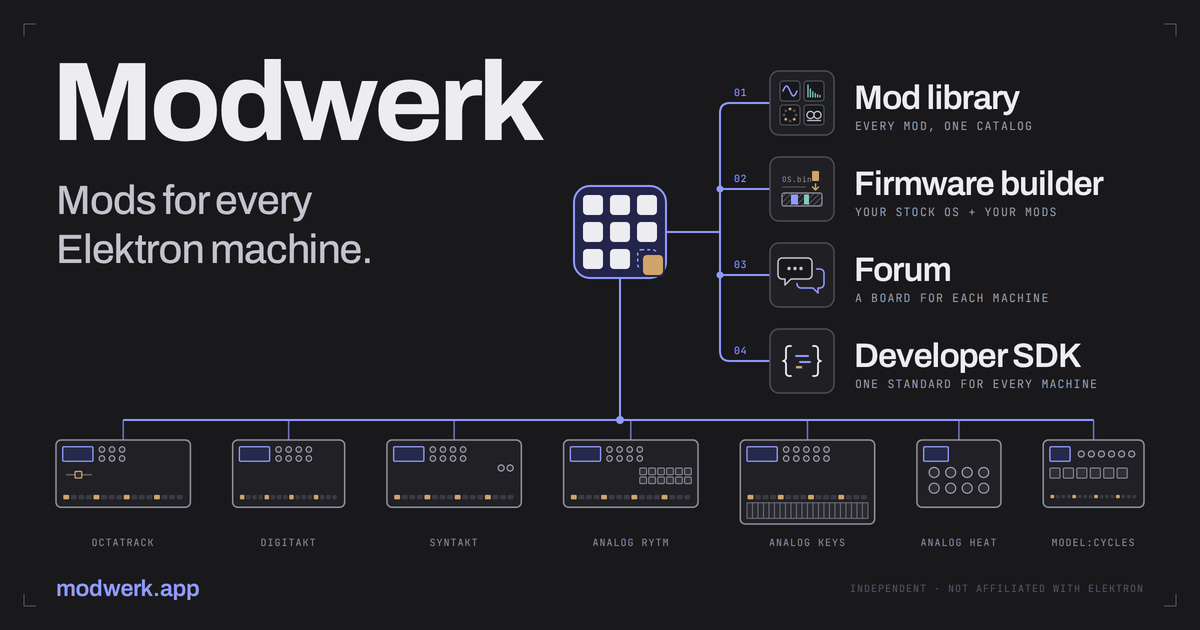
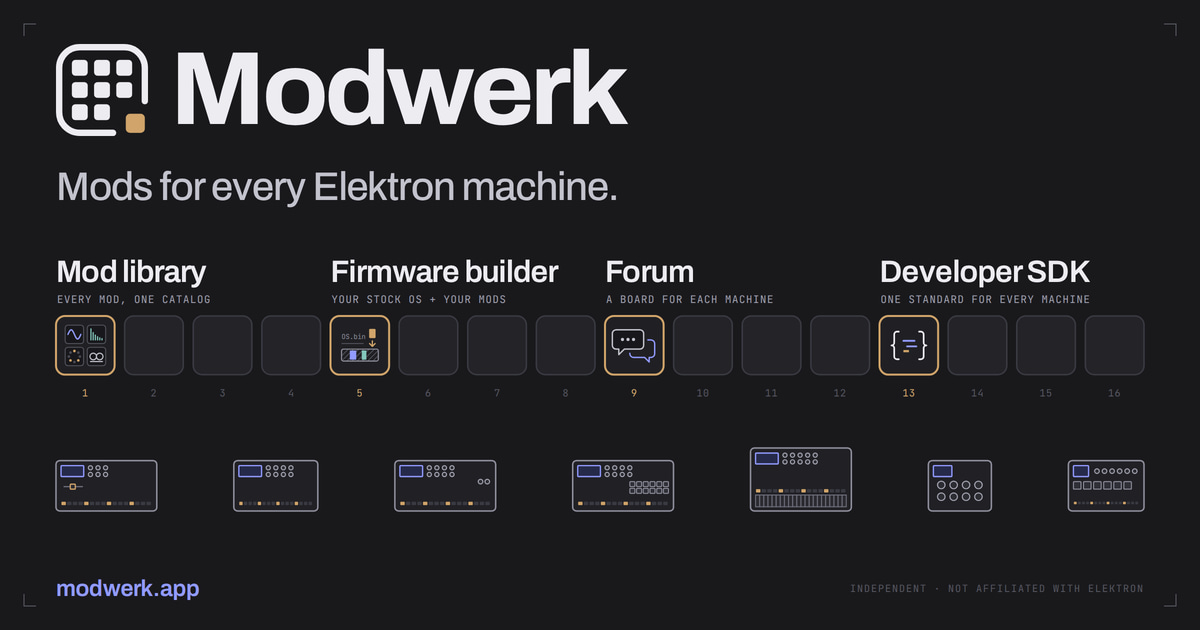
Redraw the link preview as a trig row; add the Modwerk mark
The node tree gives way to a sixteen-step trig row: its four beat steps
are the four features, with one of each machine standing on a baseline
below. The lockup embeds the new mark file as-is.

The mark keeps the eight tiles, centred in a frame that opens at one
corner, where an apricot ninth tile (the mod) slides in. It comes in
dark- and light-background versions; favicon.svg stays as it is until
the rebrand. The render script now refuses a render without the mark.

Claude-Session: https://claude.ai/code/session_011QqrFmTa9EbecLdEJrY2yL

diff --git a/docs/social-preview/modwerk-v2.html b/docs/social-preview/modwerk-v2.html
@@ -6,6 +6,7 @@
 <!--
   Source of public/modwerk-social-preview-v2.jpg: a 1200 × 630 vector drawing, rendered by
   scripts/render-social-preview.mjs. Original artwork; no firmware, photographs or captures.
+  The mark is public/modwerk-mark.svg, embedded as-is.
   Machines follow the site's schematic DeviceArt rules (generic boxes, not product likenesses).
   Fonts: Archivo and JetBrains Mono (SIL Open Font License 1.1), pinned @fontsource builds.
 -->
@@ -20,7 +21,7 @@
 </head>
 <body>
 <svg id="art" xmlns="http://www.w3.org/2000/svg" width="1200" height="630" viewBox="0 0 1200 630" role="img"
-  aria-label="Modwerk. Mods for every Elektron machine. A hub links Elektron machines to the mod library, firmware builder, forum and developer SDK."></svg>
+  aria-label="Modwerk. Mods for every Elektron machine. Four highlighted steps of a sequencer row show the mod library, firmware builder, forum and developer SDK, above a row of Elektron machines."></svg>
 <script>
 // Site palette (src/styles.css, src/devices/devices.css).
 const C = {
@@ -137,77 +138,61 @@ for (const [x, y, dx, dy] of [[24, 24, 1, 1], [1176, 24, -1, 1], [24, 606, 1, -1
   el(`<path d="M${x} ${y + dy * 12}V${y}H${x + dx * 12}" stroke="${C.faint}" stroke-width="1" fill="none"/>`)
 }
 
-// ---- Wordmark and descriptor ----
-el(`<text x="${M - 5}" y="140" class="sans" font-size="112" font-weight="720" letter-spacing="-4.5" fill="${C.ink}" style="font-stretch:104%">Modwerk</text>`)
-el(`<text x="${M}" y="214" class="sans" font-size="41" font-weight="480" letter-spacing="-1.1" fill="${C.soft}">Mods for every</text>`)
-el(`<text x="${M}" y="263" class="sans" font-size="41" font-weight="480" letter-spacing="-1.1" fill="${C.soft}">Elektron machine.</text>`)
+// ---- Lockup: the mark file, verbatim, beside the wordmark ----
+const MARK = 92
+el(`<image href="../../public/modwerk-mark.svg" x="${M}" y="44" width="${MARK}" height="${MARK}"/>`)
+el(`<text x="${M + MARK + 22}" y="124" class="sans" font-size="104" font-weight="720" letter-spacing="-4.2" fill="${C.ink}" style="font-stretch:104%">Modwerk</text>`)
+el(`<text x="${M}" y="200" class="sans" font-size="40" font-weight="480" letter-spacing="-1.1" fill="${C.soft}">Mods for every Elektron machine.</text>`)
 
-// ---- Hub: the eight-tile mark (public/favicon.svg), slot-in variant: the ninth tile is the mod ----
-const HUB = { x: 620, y: 232, size: 92 }
-el(`<rect x="${HUB.x - HUB.size / 2}" y="${HUB.y - HUB.size / 2}" width="${HUB.size}" height="${HUB.size}" rx="16" fill="#23244a" stroke="${C.accent}" stroke-width="2"/>`)
-const pad = 20, padGap = 7, padStart = (3 * pad + 2 * padGap) / 2, SLOT_IN = 6
-for (let r = 0; r < 3; r++) for (let c = 0; c < 3; c++) {
-  const x = HUB.x - padStart + c * (pad + padGap), y = HUB.y - padStart + r * (pad + padGap)
-  if (r === 2 && c === 2) {
-    // Its empty slot, and the apricot mod on its way in.
-    el(`<rect x="${x + .75}" y="${y + .75}" width="${pad - 1.5}" height="${pad - 1.5}" rx="3.5" fill="none" stroke="${C.accent}" stroke-width="1.5" stroke-dasharray="3 3"/>`)
-    el(`<rect x="${x + SLOT_IN - 2}" y="${y + SLOT_IN - 2}" width="${pad + 4}" height="${pad + 4}" rx="6" fill="#23244a"/>`)
-    el(`<rect x="${x + SLOT_IN}" y="${y + SLOT_IN}" width="${pad}" height="${pad}" rx="4" fill="${C.apricot}"/>`)
-  } else el(`<rect x="${x}" y="${y}" width="${pad}" height="${pad}" rx="4" fill="${C.ink}"/>`)
+// ---- Sixteen trig keys; the four beat steps are the four features ----
+const FEATURES = [
+  { title: 'Mod library', kicker: 'EVERY MOD, ONE CATALOG', icon: 'library' },
+  { title: 'Firmware builder', kicker: 'YOUR STOCK OS + YOUR MODS', icon: 'firmware' },
+  { title: 'Forum', kicker: 'A BOARD FOR EACH MACHINE', icon: 'forum' },
+  { title: 'Developer SDK', kicker: 'ONE STANDARD FOR EVERY MACHINE', icon: 'sdk' },
+]
+const KEY_GAP = 10, KEY = (W - 2 * M - 15 * KEY_GAP) / 16, KEY_Y = 316
+for (let i = 0; i < 16; i++) {
+  const x = M + i * (KEY + KEY_GAP)
+  const beat = i % 4 === 0
+  if (beat) {
+    const feature = FEATURES[i / 4]
+    el(`<text x="${x}" y="${KEY_Y - 34}" class="sans" font-size="31" font-weight="620" letter-spacing="-.8" fill="${C.ink}">${feature.title}</text>`)
+    el(`<text x="${x + 1}" y="${KEY_Y - 13}" class="mono" font-size="10.5" letter-spacing="1" fill="${C.kicker}">${feature.kicker}</text>`)
+    el(`<rect x="${f(x)}" y="${KEY_Y}" width="${f(KEY)}" height="${f(KEY)}" rx="9" fill="#202024" stroke="${C.apricot}" stroke-width="2"/>`)
+    el(`<g transform="translate(${f(x)} ${KEY_Y}) scale(${f(KEY / TILE)}) translate(${-x} ${-KEY_Y})">${icon(feature.icon, x, KEY_Y)}</g>`)
+  } else {
+    el(`<rect x="${f(x)}" y="${KEY_Y}" width="${f(KEY)}" height="${f(KEY)}" rx="9" fill="#232328" stroke="#3a3a43" stroke-width="1.5"/>`)
+  }
+  el(`<text x="${f(x + KEY / 2)}" y="${f(KEY_Y + KEY + 22)}" text-anchor="middle" class="mono" font-size="10" letter-spacing=".5" fill="${beat ? C.apricot : C.faint}">${i + 1}</text>`)
 }
 
-// ---- Four features, fanned out from the hub ----
-const FEATURES = [
-  { n: '01', title: 'Mod library', kicker: 'EVERY MOD, ONE CATALOG', icon: 'library' },
-  { n: '02', title: 'Firmware builder', kicker: 'YOUR STOCK OS + YOUR MODS', icon: 'firmware' },
-  { n: '03', title: 'Forum', kicker: 'A BOARD FOR EACH MACHINE', icon: 'forum' },
-  { n: '04', title: 'Developer SDK', kicker: 'ONE STANDARD FOR EVERY MACHINE', icon: 'sdk' },
-]
-const SPINE_X = 720, TILE_X = 770, PITCH = 86, ELBOW = 10
-const firstY = HUB.y - PITCH * 1.5
-const trace = `stroke="${C.accent}" stroke-width="2" fill="none"`
-el(`<path d="M${HUB.x + HUB.size / 2} ${HUB.y}H${SPINE_X}" ${trace}/>`)
-el(`<path d="M${SPINE_X} ${firstY + ELBOW}V${firstY + PITCH * 3 - ELBOW}" ${trace}/>`)
-FEATURES.forEach((feature, i) => {
-  const cy = firstY + i * PITCH
-  if (i === 0) el(`<path d="M${SPINE_X} ${cy + ELBOW}Q${SPINE_X} ${cy} ${SPINE_X + ELBOW} ${cy}H${TILE_X}" ${trace}/>`)
-  else if (i === FEATURES.length - 1) el(`<path d="M${SPINE_X} ${cy - ELBOW}Q${SPINE_X} ${cy} ${SPINE_X + ELBOW} ${cy}H${TILE_X}" ${trace}/>`)
-  else el(`<path d="M${SPINE_X} ${cy}H${TILE_X}" ${trace}/><circle cx="${SPINE_X}" cy="${cy}" r="3.5" fill="${C.accent}"/>`)
-  el(`<text x="${SPINE_X + 14}" y="${cy - 7}" class="mono" font-size="10" letter-spacing=".5" fill="${C.accent}">${feature.n}</text>`)
-  el(`<rect x="${TILE_X}" y="${cy - TILE / 2}" width="${TILE}" height="${TILE}" rx="9" fill="#202024" stroke="#4c4c57" stroke-width="1.5"/>`)
-  el(icon(feature.icon, TILE_X, cy - TILE / 2))
-  el(`<text x="${TILE_X + TILE + 20}" y="${cy + 6}" class="sans" font-size="34" font-weight="620" letter-spacing="-.9" fill="${C.ink}">${feature.title}</text>`)
-  el(`<text x="${TILE_X + TILE + 21}" y="${cy + 27}" class="mono" font-size="11.5" letter-spacing="1.1" fill="${C.kicker}">${feature.kicker}</text>`)
-})
-
-// ---- Machines on one bus, joined to the hub ----
-const BUS_Y = 420, MACHINE_TOP = 440, SCALE = .56
-el(`<path d="M${HUB.x} ${HUB.y + HUB.size / 2}V${BUS_Y}" ${trace}/>`)
+// ---- One of each machine, standing on one baseline ----
+const MACHINE_BASE = 511, SCALE = .42
 const widths = MACHINES.map(([, art]) => bodySize(art).width * SCALE)
 const machineGap = (W - 2 * M - widths.reduce((a, b) => a + b, 0)) / (MACHINES.length - 1)
-const centers = []
 let left = M
-MACHINES.forEach(([name, art], i) => {
-  const cx = left + widths[i] / 2
-  centers.push(cx)
-  el(machine(art, left, MACHINE_TOP, SCALE))
-  el(`<path d="M${f(cx)} ${BUS_Y}V${MACHINE_TOP}" stroke="${C.accent}" stroke-width="1.5" opacity=".7"/>`)
-  el(`<text x="${f(cx)}" y="${MACHINE_TOP + 150 * SCALE + 22}" text-anchor="middle" class="mono" font-size="10" letter-spacing="1" fill="${C.muted}">${name.toUpperCase()}</text>`)
+MACHINES.forEach(([, art], i) => {
+  el(machine(art, left, MACHINE_BASE - bodySize(art).height * SCALE, SCALE))
   left += widths[i] + machineGap
 })
-el(`<path d="M${f(centers[0])} ${BUS_Y}H${f(centers.at(-1))}" stroke="${C.accent}" stroke-width="2"/>`)
-el(`<circle cx="${HUB.x}" cy="${BUS_Y}" r="4" fill="${C.accent}"/>`)
 
 // ---- Footer ----
 el(`<text x="${M}" y="596" class="sans" font-size="23" font-weight="620" letter-spacing="-.4" fill="${C.accent}">modwerk.app</text>`)
 el(`<text x="${W - M}" y="592" text-anchor="end" class="mono" font-size="10" letter-spacing="1" fill="${C.faint}">INDEPENDENT · NOT AFFILIATED WITH ELEKTRON</text>`)
 
 document.getElementById('art').innerHTML = out.join('\n')
-// Refuse to report a render with fallback fonts.
-document.fonts.ready.then(() => {
-  const ok = document.fonts.check('720 112px Archivo') && document.fonts.check('400 10px "JetBrains Mono"')
+// Refuse to report a render with fallback fonts or without the mark.
+const markLoaded = new Promise(resolve => {
+  const probe = new Image()
+  probe.onload = () => resolve(true)
+  probe.onerror = () => resolve(false)
+  probe.src = '../../public/modwerk-mark.svg'
+})
+Promise.all([document.fonts.ready, markLoaded]).then(([, mark]) => {
+  const fonts = document.fonts.check('720 104px Archivo') && document.fonts.check('400 10px "JetBrains Mono"')
     && [...document.fonts].every(face => face.status === 'loaded')
-  document.documentElement.dataset.rendered = ok ? 'true' : 'font-error'
+  document.documentElement.dataset.rendered = fonts && mark ? 'true' : fonts ? 'mark-error' : 'font-error'
 })
 </script>
 </body>

diff --git a/docs/SOCIAL-PREVIEW.md b/docs/SOCIAL-PREVIEW.md
@@ -18,23 +18,33 @@ services can fetch the new asset.
 ## Modwerk launch artwork
 
 `public/modwerk-social-preview-v2.jpg` is the prepared homepage link preview for the
-Modwerk rebrand: 1200 × 630, progressive sRGB JPEG, quality 95, 4:4:4. It reads as a
-signal diagram: the eight-tile mark, its ninth tile an apricot mod sliding into its
-slot, is a hub that fans out to the four features (Mod
-library, Firmware builder, Forum, Developer SDK) and connects down to a bus of
-Elektron machines. The copy is “Mods for every Elektron machine.” The feature labels
-are sized to stay legible at 600 × 315 and 400 × 210.
+Modwerk rebrand: 1200 × 630, progressive sRGB JPEG, quality 95, 4:4:4. The Modwerk
+lockup and “Mods for every Elektron machine.” sit above a sixteen-step trig row whose
+four beat steps are the four features: Mod library, Firmware builder, Forum and
+Developer SDK. One of each machine silhouette stands below. The feature labels are
+sized to stay legible at 600 × 315 and 400 × 210.
 
-The machines are one of each silhouette (Octatrack, Digitakt, Syntakt, Analog Rytm,
-Analog Keys, Analog Heat, Model:Cycles), drawn with the site's schematic `DeviceArt`
-rules. They are generic line drawings, not product likenesses or captures, and say
-nothing about which machines have mods yet. Product names identify the machines only;
-the artwork states that Modwerk is independent and not affiliated with Elektron.
+The machines (Octatrack, Digitakt, Syntakt, Analog Rytm, Analog Keys, Analog Heat,
+Model:Cycles) are drawn with the site's schematic `DeviceArt` rules. They are generic
+line drawings, not product likenesses or captures, and say nothing about which
+machines have mods yet. The artwork states that Modwerk is independent and not
+affiliated with Elektron.
+
+### Mark
+
+`public/modwerk-mark.svg` (dark backgrounds) and `public/modwerk-mark-on-light.svg`
+(light backgrounds) are the Modwerk mark: eight tiles centred in a frame that opens
+at one corner, where an apricot ninth tile, the mod, slides in. The artwork embeds
+`modwerk-mark.svg` as-is, so a change to the mark changes the preview on its next
+export. `public/favicon.svg` is still the Octamod mark; switching it belongs to the
+rebrand.
+
+### Source and export
 
 The source is the vector drawing [`social-preview/modwerk-v2.html`](social-preview/modwerk-v2.html).
 It uses Archivo and JetBrains Mono (SIL Open Font License 1.1), pinned
-`@fontsource-variable` 5.3.0 builds; no images, photographs, firmware or generated
-artwork go into it. To re-export:
+`@fontsource-variable` 5.3.0 builds, and the mark file; no photographs, firmware or
+generated images go into it. To re-export:
 
 ```sh
 npm install --no-save playwright@1.56.1 @fontsource-variable/archivo@5.3.0 @fontsource-variable/jetbrains-mono@5.3.0
@@ -43,16 +53,17 @@ node scripts/render-social-preview.mjs --previews /tmp/modwerk-previews
 ```
 
 The script renders at 2× in Chromium, downsamples with Sharp, refuses a render whose
-fonts did not load, and prints the export's SHA-256. The committed export is 117,553
[1 lines of base64/hex data omitted]
+fonts or mark did not load, and prints the export's SHA-256. The committed export is
[1 lines of base64/hex data omitted]
 (Playwright 1.56.1 Chromium on Linux; other platforms may differ by antialiasing).
 
 Activate it with the rebrand, not before: set `og:image` and `twitter:image` to
 `https://modwerk.app/modwerk-social-preview-v2.jpg`, keep the 1200 × 630 dimensions
 and `image/jpeg` type, and use this alt text for both cards:
 
-> Modwerk — Mods for every Elektron machine. A hub links Elektron machines to the mod
-> library, firmware builder, forum and developer SDK.
+> Modwerk — Mods for every Elektron machine. Four highlighted steps of a sequencer
+> row show the mod library, firmware builder, forum and developer SDK, above a row of
+> Elektron machines.
 
 ## Module links
 
